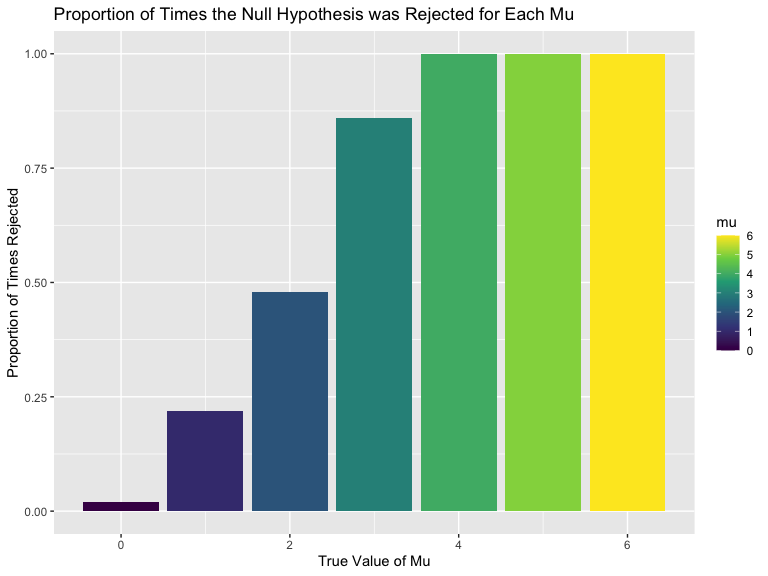
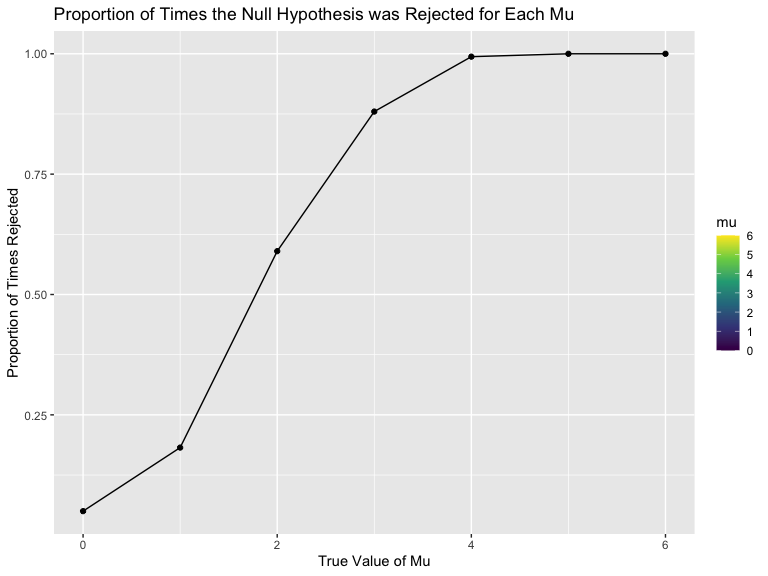
tried increasing to 500

diff --git a/p8105_HW5_lsj2122.md b/p8105_HW5_lsj2122.md
@@ -134,22 +134,13 @@ sim_norm = function(mu, n = 30, sigma = 5) {
     select(p.value, estimate) |> 
     rename(mu_hat = estimate)
 }
-
-output = vector("list", length = 50)
-
-for (i in 1:50) {
-  output[[i]] = sim_norm(0)
-  
-}
-
-sim_results_df = bind_rows(output)
 ```
 
 ``` r
 sim_results_df = 
   expand_grid(
     mu = c(0,1,2,3,4,5,6),
-    iter = 1:50
+    iter = 1:500
   ) |> 
   mutate(
     estimate_df = map(mu, sim_norm)
@@ -169,11 +160,12 @@ sim_results_plot =
       p.value < 0.05 ~ TRUE
     )) |> 
   summarize(count = sum(reject)) |> 
-  mutate(prop = count / 50)
+  mutate(prop = count / 500)
 
 sim_results_plot |> 
   ggplot(aes(x = mu, y = prop, fill = mu)) +
-  geom_col() +
+  geom_point() +
+  geom_line() +
   labs(
     title = "Proportion of Times the Null Hypothesis was Rejected for Each Mu",
     x = "True Value of Mu",
@@ -182,3 +174,5 @@ sim_results_plot |>
 ```
 
 <img src="p8105_HW5_lsj2122_files/figure-gfm/unnamed-chunk-7-1.png" width="90%" />
+
+## Plot Comparing the Average Estimate and the True Value of Mu
